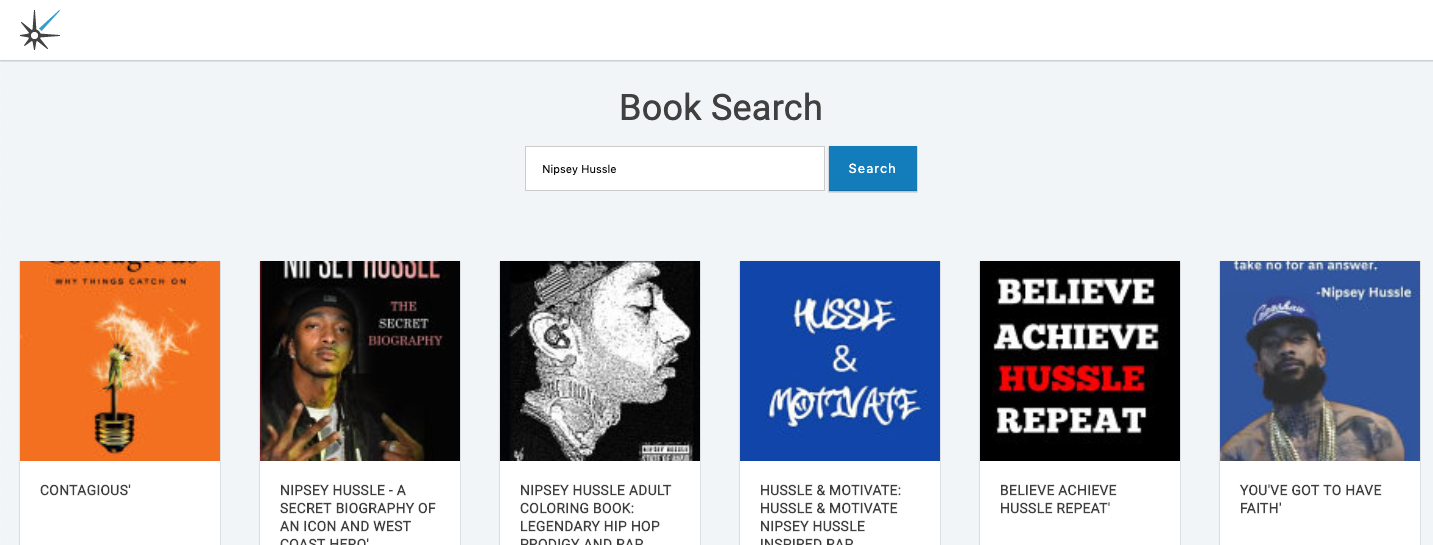
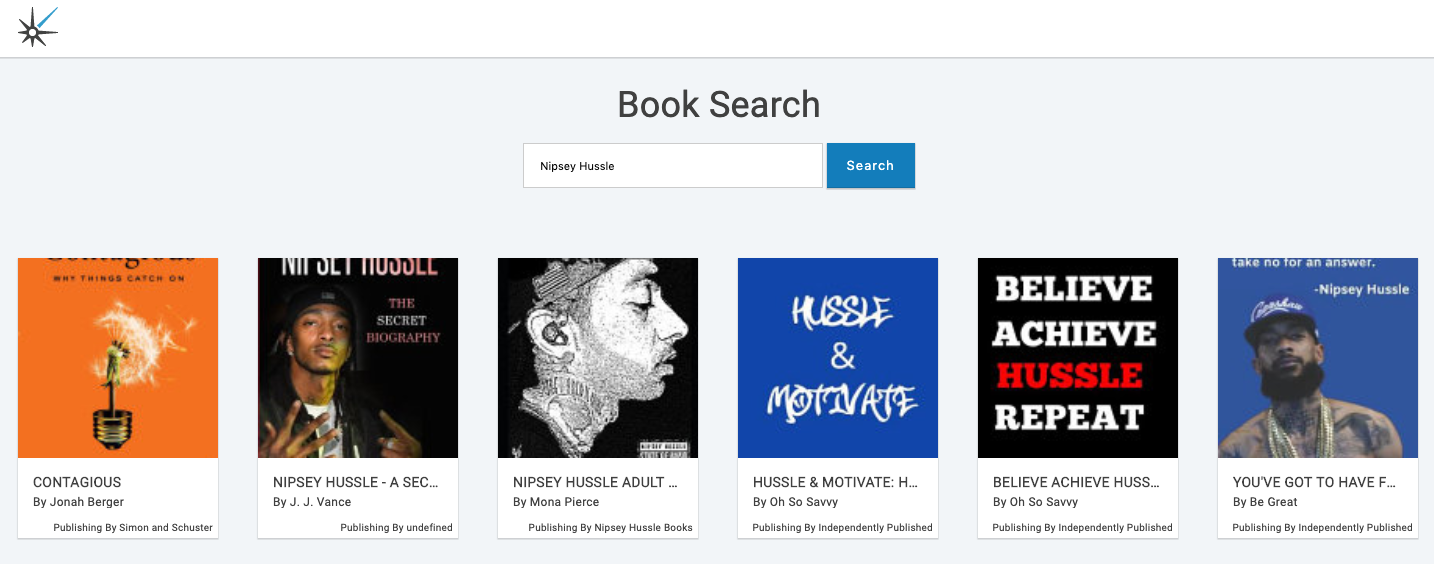
added missing info and new styles

diff --git a/src/App.js b/src/App.js
@@ -48,7 +48,11 @@ class App {
             bookListHtml += `<li>
                 <a href="${book.volumeInfo.infoLink}" class="book" target="_blank">
                     <div class="img" style="background-image: url('${thumbnail}')"></div>
-                    <div class="name">${book.volumeInfo.title}'</div>
+                    <div class="info">
+                        <div class="name ellipsis" title="${book.volumeInfo.title}">${book.volumeInfo.title}</div>
+                        <div class="authors ellipsis" title="${book.volumeInfo.authors[0]}"><span>By</span> ${book.volumeInfo.authors[0]} ${book.volumeInfo.authors.length > 1 ? ' and ' + book.volumeInfo.authors.length + ' more' : ''}</div>
+                        <div class="publishing ellipsis" title="${book.volumeInfo.publisher}"><span>Publishing By</span> ${book.volumeInfo.publisher}</div>
+                    </div>
                 </a>
             </li>`;
         });

diff --git a/src/styles/components/_results.scss b/src/styles/components/_results.scss
@@ -35,14 +35,33 @@
             height: 200px;
         }
 
+        .info {
+            padding: 15px;
+            height: 80px;
+            position: relative;
+        }
+
         .name {
             line-height: 1.3;
             font-weight: bold;
-            height: 100px;
             overflow: auto;
             font-size: 14px;
-            padding: 20px;
             text-transform: uppercase;
+        }
+
+        .authors {
+            margin-top: 5px;
+            font-size: 12px;
+        }
+
+        .publishing {
+            position: absolute;
+            font-size: 10px;
+            bottom: 0;
+            right: 0;
+            text-align: right;
+            padding: 5px;
+            width: 200px;
         }
     }
 
